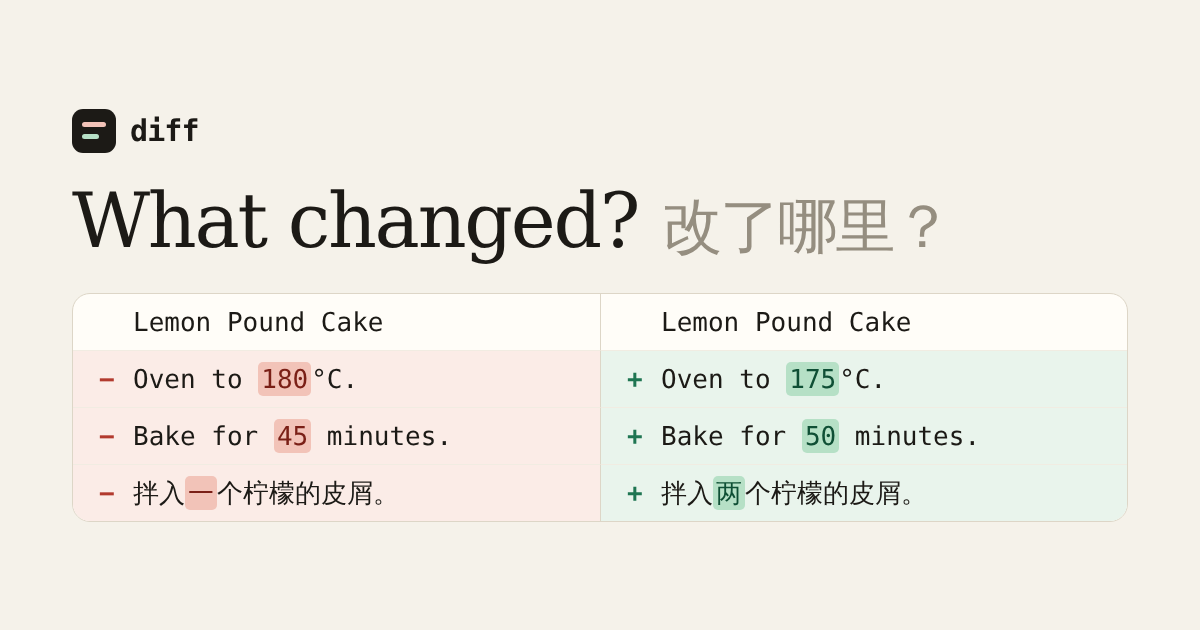
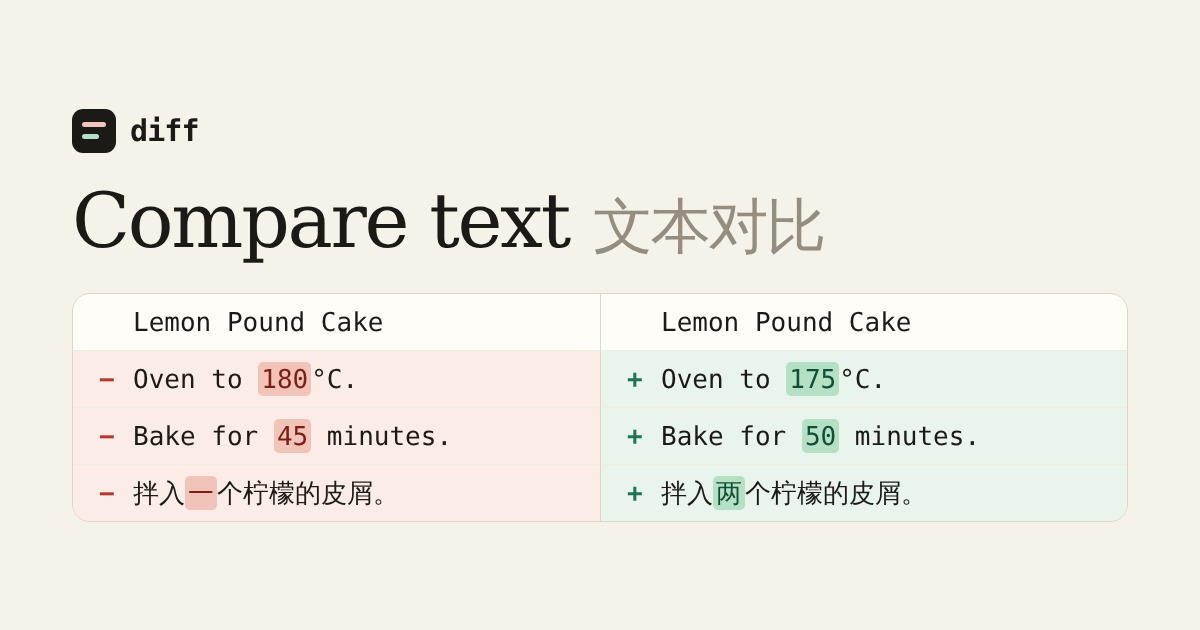
Use a plain, smaller page heading and drop the intro line
The heading now reads "Compare text" / "文本对比" at the size of the
Changes heading, and the sentence under it is gone. The social image
uses the same heading.

Claude-Session: https://claude.ai/code/session_01SjcvCJwaW6pi3vKHokwRbT

Changed region(s): [[0.0617, 0.3016, 0.7708, 0.4222], [0.7708, 0.3317, 0.8017, 0.3619]]

diff --git a/app/page.tsx b/app/page.tsx
@@ -96,8 +96,7 @@ const translations = {
     title: "Diff — Compare Two Texts",
     description:
       "Paste two versions of any text and see exactly what changed, line by line and word by word. Runs entirely in your browser.",
-    headline: "What changed?",
-    lede: "Paste two versions of anything — a contract, an essay, a config file. Edits show up as you type, down to the word.",
+    headline: "Compare text",
     privacy: "Your text never leaves this browser.",
     languageLabel: "Language",
     switchToDark: "Use dark theme",
@@ -151,8 +150,7 @@ const translations = {
     title: "Diff · 文本对比",
     description:
       "粘贴两个版本的文本，逐行、逐词标出改动。全部在浏览器本地完成，内容不会上传。",
-    headline: "改了哪里？",
-    lede: "把两个版本粘贴进来——合同、文章、配置文件都行。改动随输入即时标出，精确到每个词。",
+    headline: "文本对比",
     privacy: "文本只在你的浏览器里处理，不会上传。",
     languageLabel: "语言",
     switchToDark: "切换到深色",
@@ -818,7 +816,6 @@ export default function Home() {
       <div className="page">
         <div className="intro">
           <h1>{t.headline}</h1>
-          <p>{t.lede}</p>
         </div>
 
         <section className="compare" aria-label={t.workspaceLabel}>

diff --git a/app/globals.css b/app/globals.css
@@ -686,26 +686,17 @@ textarea:focus-visible {
 }
 
 .intro {
-  padding: 40px 0 28px;
-  max-width: 760px;
+  padding: 28px 0 20px;
 }
 
 .intro h1 {
   margin: 0;
   color: var(--ink);
   font-family: var(--font-serif);
-  font-size: clamp(36px, 5vw, 56px);
+  font-size: 30px;
   font-weight: 500;
-  line-height: 1.05;
-  letter-spacing: -0.025em;
-}
-
-.intro p {
-  margin: 14px 0 0;
-  color: var(--text-muted);
-  font-size: 16px;
-  line-height: 1.6;
-  text-wrap: pretty;
+  line-height: 1.2;
+  letter-spacing: -0.015em;
 }
 
 /* Editors */
@@ -1423,11 +1414,11 @@ textarea:focus-visible {
   }
 
   .intro {
-    padding: 20px 0 20px;
+    padding: 16px 0;
   }
 
-  .intro p {
-    font-size: 15px;
+  .intro h1 {
+    font-size: 24px;
   }
 
   .sheets {
